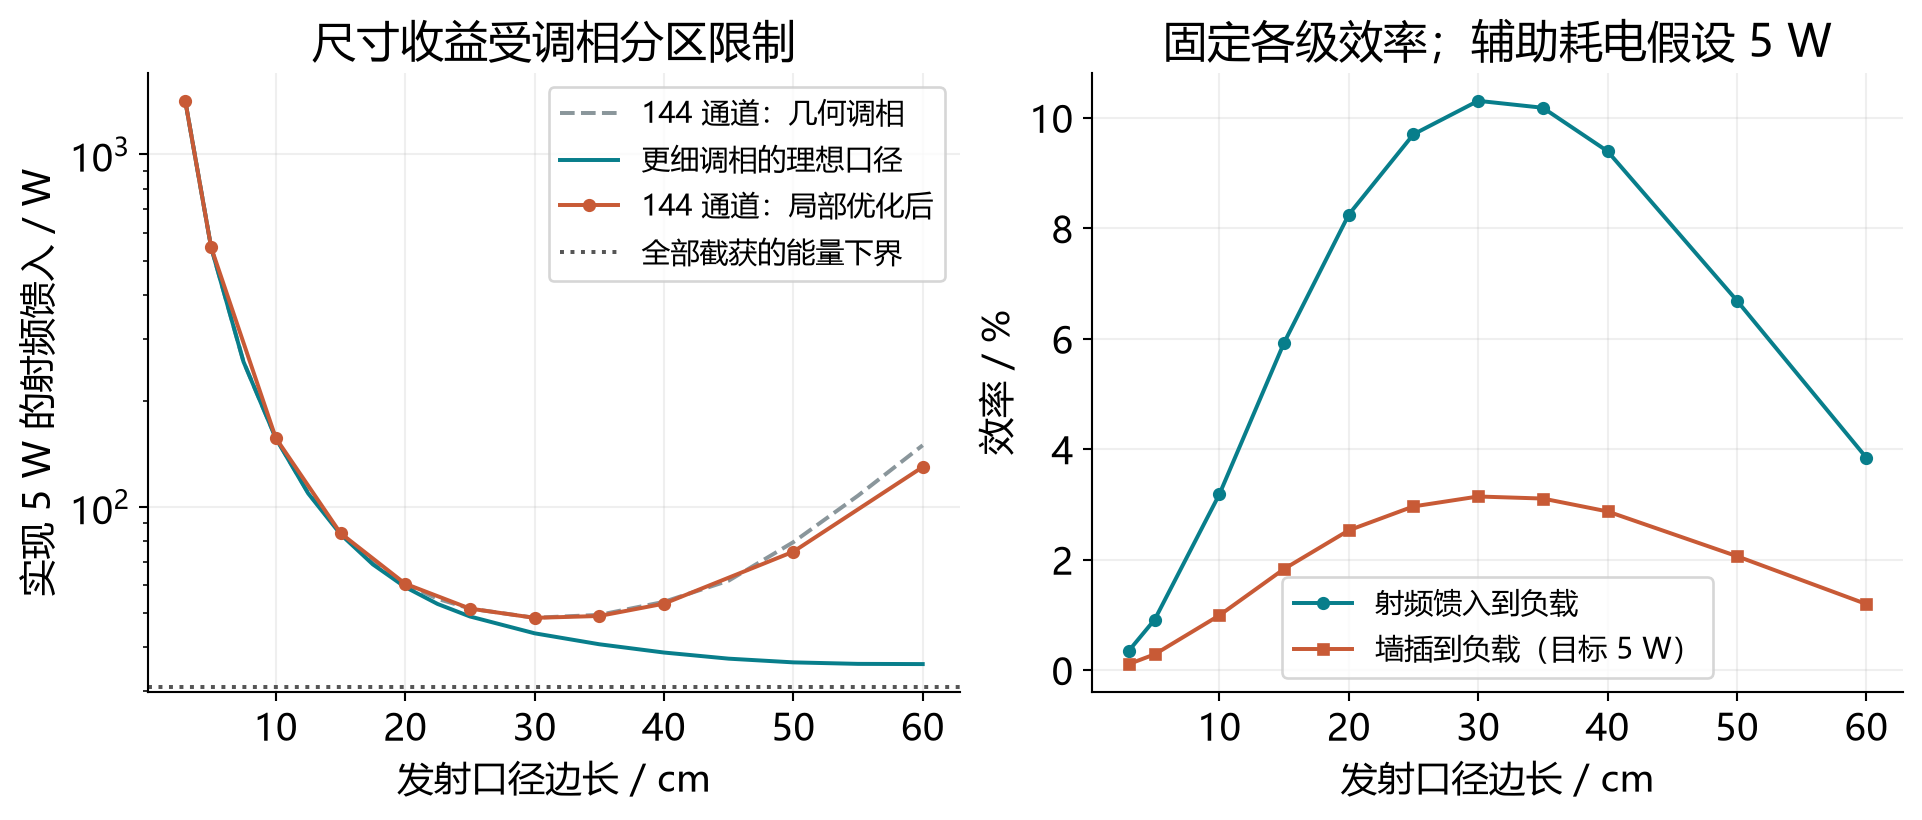
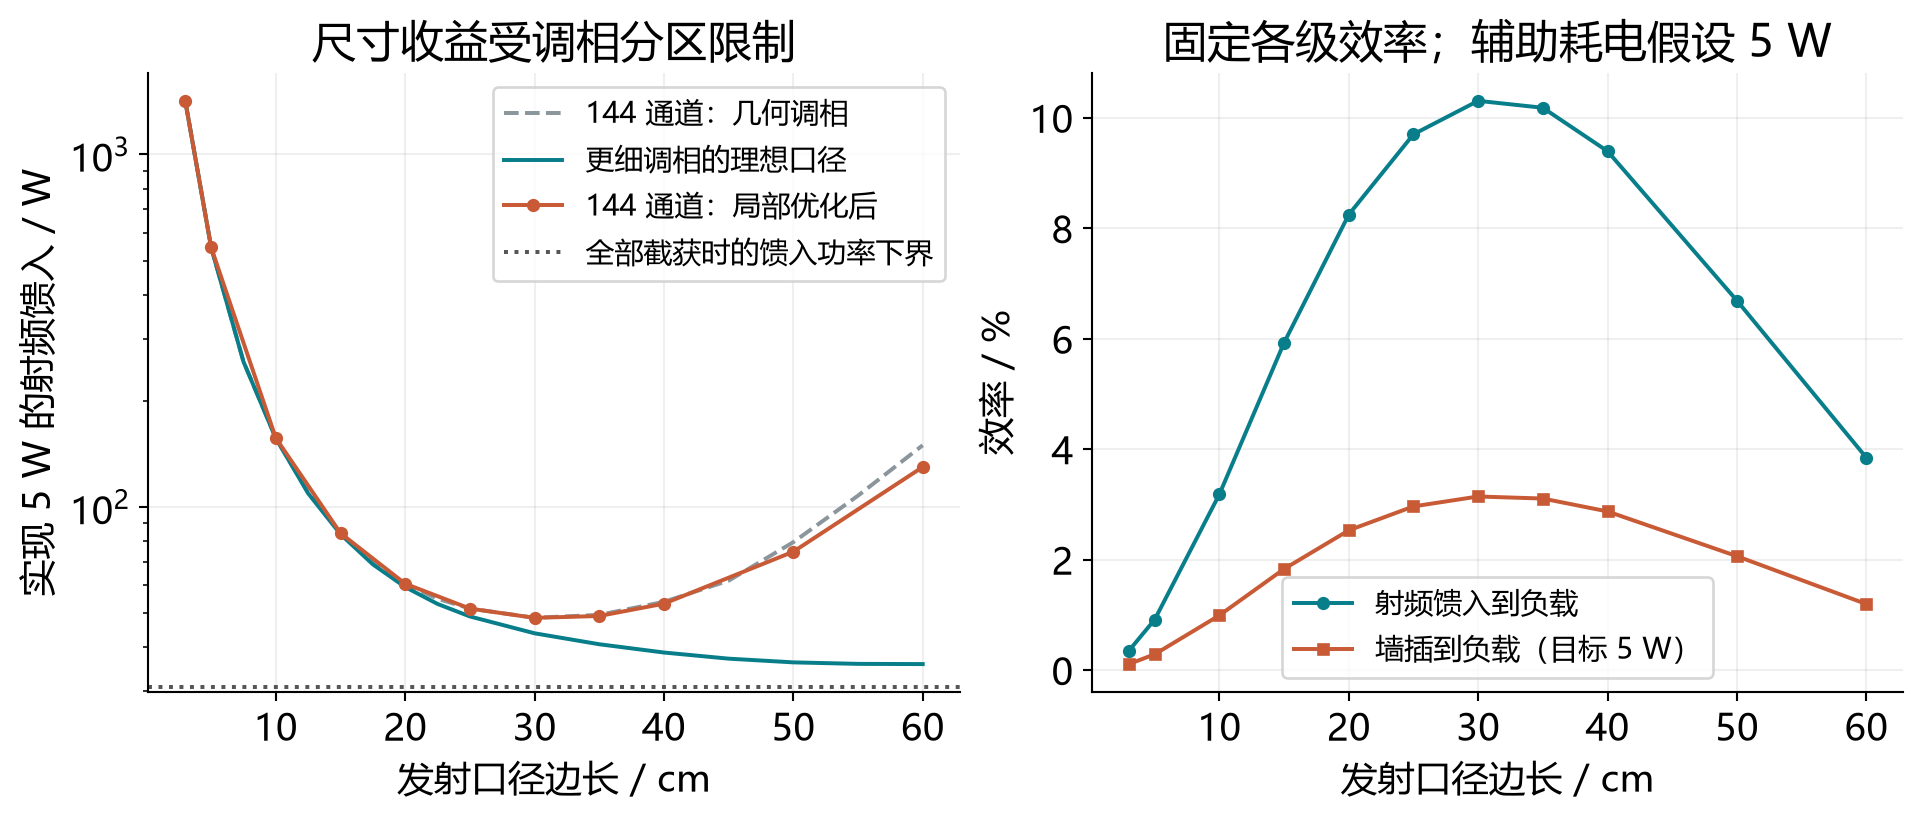
docs: correct figure units and clarify numerical interpretation

Changed region(s): [[0.2497, 0.0915, 0.4995, 0.3354]]

diff --git a/wpt/plots.py b/wpt/plots.py
@@ -95,7 +95,7 @@ def _efficiency_plot(plt, study):
     )
     axes[0].axhline(
         target / complete_capture_eta, color="#555555", ls=":",
-        label="全部截获的能量下界",
+        label="全部截获时的馈入功率下界",
     )
     axes[0].set(
         xlabel="发射口径边长 / cm", ylabel=f"实现 {target:g} W 的射频馈入 / W",

diff --git a/README.md b/README.md
@@ -45,7 +45,7 @@
 3. **局部优化与量化。**以几何调相为单一起点，固定通道振幅，用伴随梯度提高总收能，最后量化到 64 个相位状态。
 4. **换算供电与场强。**按效率链反算 5 W 负载所需馈入，分别检查电场、磁场，并分析位置偏差。
 
-在约 5 mm 波长下，30 cm 方形口径按最大线尺寸估算的远场参考距离约为 72 m，远大于目标距离 3 m。因此模型保留球面波传播与近场聚焦；接收面积已在积分中计入，不再额外乘一次由该面积推算的天线增益。
+在约 5 mm 波长下，30 cm 方形口径的最大线尺寸是对角线，约为 42.4 cm；按 $2D_{\max}^2/\lambda$ 估算的远场参考距离约为 72 m，远大于目标距离 3 m。因此模型保留球面波传播与近场聚焦；接收面积已在积分中计入，不再额外乘一次由该面积推算的天线增益。
 
 设空间截获比例为 $\kappa$，按上述效率设定：
 
@@ -82,6 +82,8 @@ $$
 
 30 cm 候选的空间截获比例约为 **63.63%**，射频到负载效率约为 **10.31%**，墙插效率约为 **3.15%**。该点几何调相已接近局部优化结果：最终截获比例相对几何基准仅提高约 **0.0704%**，不能把从小口径到 30 cm 的全部收益归因于优化算法。
 
+作为误差尺度对照，30 cm 候选在加密网格核查中，截获比例变化约 **0.1778%**，大于上述微小优化收益。因此，0.0704% 不能解读为已经具有实验意义的效率提升。
+
 ![调相方式对功率需求和效率的影响](assets/figures/02-aperture-efficiency.png)
 
 **图 2｜口径、相位控制与效率。**左图比较几何调相、144 路局部优化和连续细调相对照；点线是完全截获辐射能量、但保留各级转换损耗时的射频预算下界。右图区分射频到负载效率与墙插效率，后者计入固定 5 W 辅助耗电。
@@ -90,7 +92,7 @@ $$
 
 本项目以 GB 8702—2014 作为公众电磁环境的设计筛查依据。其 15–300 GHz 频段给出电场 **27 V/m**、磁场 **0.073 A/m**，以及远场等效平面波功率密度 2 W/m²；该频段按任意连续 6 分钟的方均根值评价，近场需要同时检查 E/H。本仿真为稳态连续传能，分别计算两种场量。[标准发布稿：表 1 及注释](https://www.mee.gov.cn/ywgz/fgbz/bz/bzwb/hxxhj/dcfsbz/201410/W020141022352826534956.pdf)
 
-30 cm 候选达到 5 W 时，手机面电场和磁场的空间峰值分别约为 **1987 V/m、5.275 A/m**。如果要求手机接收面所有采样点也受同样 E/H 限值约束，该候选波束缩放后的负载仅约 **0.924 mW**；这是特定波束和受电面约束下的结果，不是所有无线传能方案的通用上限。
+30 cm 候选达到 5 W 时，手机面各采样点的电场、磁场方均根值（RMS）的空间最大值分别约为 **1987 V/m、5.275 A/m**；这里不是时间波形的瞬时峰值，两种场量也分别统计。如果要求手机接收面所有采样点也受同样 E/H 限值约束，该候选波束缩放后的负载仅约 **0.924 mW**；这是特定波束和受电面约束下的结果，不是所有无线传能方案的通用上限。
 
 ![传播路径上的电场和磁场限值比](assets/figures/03-propagation-field.png)
 
@@ -112,7 +114,7 @@ $$
 
 这项检查移动接收区域而保持既有波束不变，不是动态信标与闭环控制仿真。相同波束下把接收面扩大到 98 cm²，负载仅提高到约 **5.81 W**。数据见 [接收面敏感性结果](results/focused_aperture/receiver_sensitivity.json)。
 
-此外，50% 整流效率和 90% 电源管理效率意味着，为交付 5 W，接收转换链需要约 11.11 W 射频输入，二者损耗合计约 **6.11 W**。这尚未证明普通手机能够承受相应温升；未收集的空间能量也不能全部算成手机发热。
+此外，50% 整流效率和 90% 电源管理效率意味着，为交付 5 W，整流器输入端需要约 **11.11 W 射频功率**；计入 60% 等效收能效率前，穿过手机接收面的净功率约为 **18.52 W**。整流与电源管理的损耗合计约 **6.11 W**。这尚未证明普通手机能够承受相应温升；未收集的空间能量也不能全部算成手机发热。
 
 ## 复现方法
 
@@ -142,7 +144,7 @@ python run.py analyze
 python run.py plot
 ```
 
-`analyze` 重新写入两份派生分析 JSON；`plot` 只绘图，不修改数值结果。GitHub 版本的图片默认生成到 **`文档/小米隔空充电_技术方案.assets/`**；本地旧版路径配置仍可能使用上一级的 `../文档/`，以 [wpt/paths.py](wpt/paths.py) 中的 `DOCUMENTS_DIR` 为准。本 README 使用 [assets/figures/](assets/figures/) 中的四张文章配图快照，二者不会自动同步。中文字体缺失时可安装 Noto Sans CJK SC 或思源黑体。
+`analyze` 重新写入两份派生分析 JSON；`plot` 只绘图，不修改数值结果。GitHub 版本的图片默认生成到 **`文档/小米隔空充电_技术方案.assets/`**；当前本地副本仍使用上一级的 `../文档/`，以 [wpt/paths.py](wpt/paths.py) 中的 `DOCUMENTS_DIR` 为准。本 README 使用 [assets/figures/](assets/figures/) 中的四张文章配图快照，二者不会自动同步。中文字体缺失时可安装 Noto Sans CJK SC 或思源黑体。
 
 ### 从头重新计算
 
